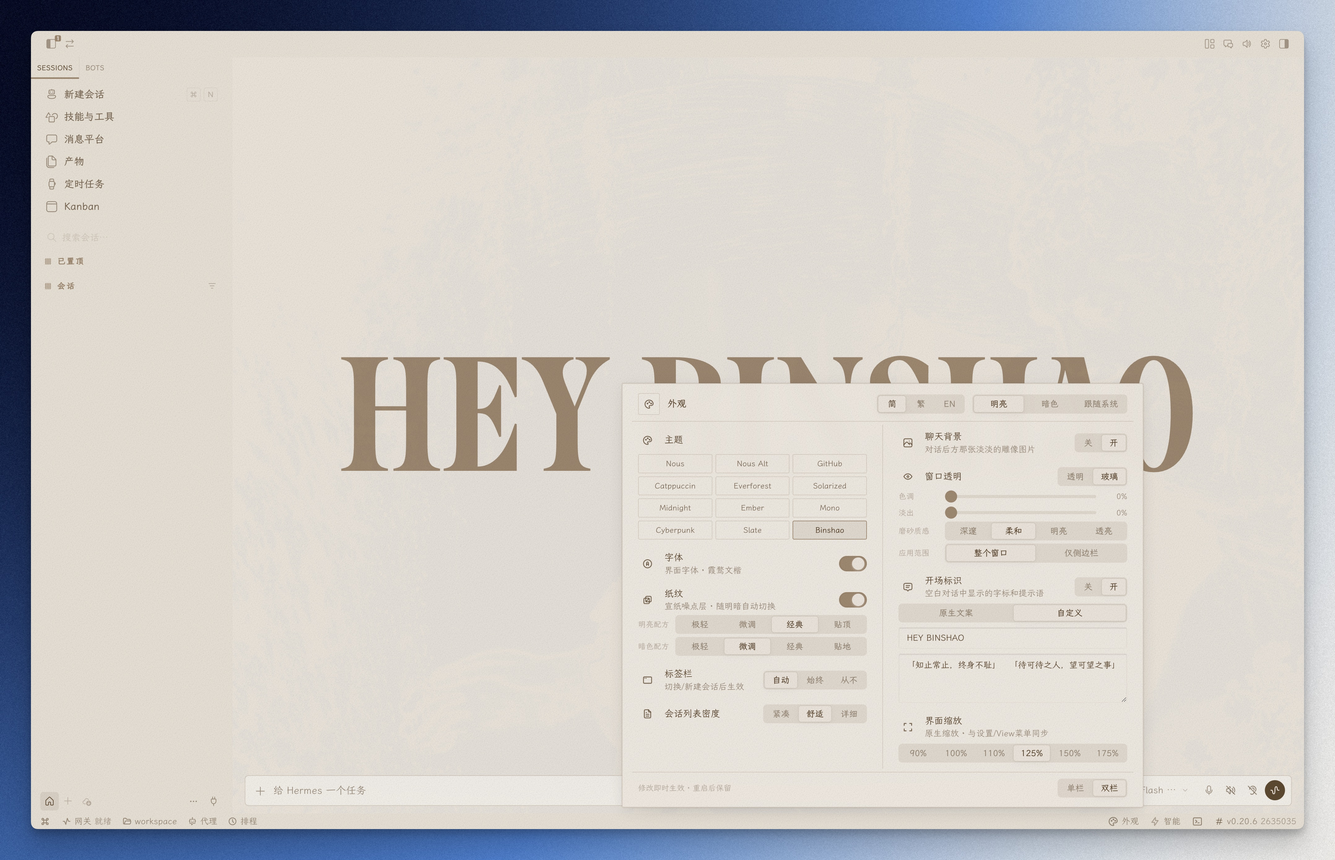
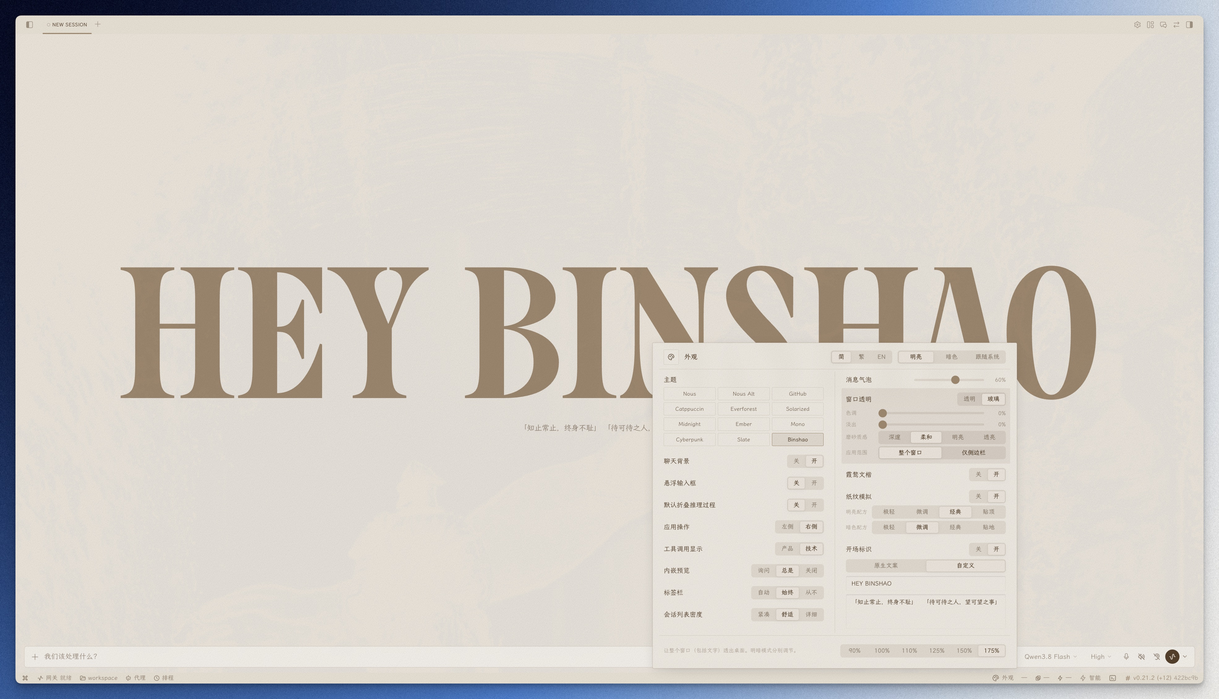
docs(readme): rewrite preview and usage for the v3 panel form
- drop context-menu section (and its screenshot), single panel shot
  replaces dual-column pair — new user-provided captures
- Binshao theme + intro splash (native/custom, two shots) refreshed
- font+paper before/after untouched per request
- features/usage/principles synced: desc band, behavior quintet,
  static fingerprint atom claim, renamed rows

diff --git a/README.md b/README.md
@@ -1,41 +1,40 @@
 # Hermes Appearance Hub ![版本](https://img.shields.io/badge/版本-v2.3.0-blue)
 
-给 Hermes 桌面端用的**外观整合插件**：把主题、纸纹、字体、缩放、标签栏、密度、聊天背景、消息气泡、窗口透明、开场标识等外观设置收进一个状态栏入口，一键管理，设置持久化。
+给 Hermes 桌面端用的**外观整合插件**：把主题、纸纹模拟、字体、缩放、标签栏、密度、聊天背景、消息气泡、窗口透明、开场标识、对话行为等设置收进一个状态栏入口，一键管理，设置持久化。
 
 ## 特性
 
 - 无需构建、不改应用代码——单个 ESM 文件
 - 状态栏「外观」入口，右键可显隐
-- 主题（12 个，含 Binshao 暖纸）· 语言简/繁/EN · 霞鹜文楷 · 纸纹 · 缩放 · 标签栏 · 密度 · 聊天背景 · 消息气泡 · 窗口透明 · 开场标识
+- 双栏面板 · 每行只留标题，悬停即见简介（底部说明带）
+- 主题（12 个，含 Binshao 暖纸）· 语言简/繁/EN · 霞鹜文楷 · 纸纹模拟 · 缩放 · 标签栏 · 密度 · 聊天背景 · 消息气泡 · 窗口透明 · 开场标识 · 对话行为（工具调用显示 / 折叠推理 / 内嵌预览 / 悬浮输入框 / 应用操作）
 - 设置持久化，卸载清理注入、不留残留
 
 ## 界面预览
 
-### 状态栏右键菜单
+### 外观浮窗
 
-可勾选显示/隐藏「外观设置」入口：
+点击状态栏「外观」按钮弹出，双栏铺开；每行只留标题，悬停任一设置项，底部说明带显示该项简介：
 
-![状态栏右键菜单](assets/screenshot-context-menu.png)
-
-### 外观浮窗 · 双栏
-
-点击状态栏「外观」按钮弹出，双栏铺开、高度减半，矮屏/大缩放不需要滚动。多数能力即时生效；标签栏、会话列表密度随下次布局变化生效：
-
-![外观浮窗 · 双栏](assets/screenshot-panel-dual.jpg)
+![外观浮窗](assets/screenshot-panel.jpg)
 
 ### Binshao 主题
 
-暖纸色系明暗双模式，配纸纹层使用更佳——亮色泛黄杂志纸，暗色深棕纸：
+暖纸色系明暗双模式，配纸纹模拟使用更佳——亮色泛黄杂志纸，暗色深棕纸：
 
 ![Binshao · 明亮](assets/screenshot-theme-binshao-light.jpg)
 
 ![Binshao · 暗色](assets/screenshot-theme-binshao-dark.jpg)
 
-### 开场标识自定义
+### 开场标识
 
-新会话空态字标与提示语替换为自定义文案：
+原生文案（官方字标与随机提示语）：
 
-![开场标识自定义](assets/screenshot-intro-custom.png)
+![开场标识 · 原生文案](assets/screenshot-intro-native.jpg)
+
+自定义文案（字标与提示语均可替换）：
+
+![开场标识 · 自定义](assets/screenshot-intro-custom.jpg)
 
 ### 字体 + 纸纹 · 浅色
 
@@ -89,17 +88,17 @@ git clone https://github.com/Heybinshao/hermes-appearance-hub ~/.hermes/desktop-
 ## 使用
 
 1. 状态栏右侧出现「外观」按钮（调色盘图标），点击弹出浮窗
-2. 多数能力即时生效；标签栏、会话列表密度随下次布局变化生效：
-   - **主题**：右上角明亮/暗色/系统三档；网格区 12 个主题点击即切（11 个原生 + Binshao）
-   - **语言**：简/繁/EN 三键，绑定官方语言通道（位于顶部标题行、主题三档左侧）
-   - **字体**：霞鹜文楷界面字体一键开关
-   - **纸纹**：噪点层随明暗自动切换；下方配方可选极轻/微调/经典/贴地（暗色）或贴顶（浅色），从左到右由轻到重
-   - **界面缩放**：六档按钮，直接驱动 Hermes 原生缩放，与设置/View 菜单同步
-   - **标签栏 / 会话列表密度**：与设置页同源，改动落盘后随下次布局变化生效（如切换/新建会话）
+2. 每行只留标题，鼠标悬停任一设置项，底部说明带显示该项简介（不悬停时显示占位提示）；多数能力即时生效，标签栏、会话列表密度随下次布局变化生效：
+   - **主题**：右上角明亮/暗色/系统三档、简/繁/EN 语言三键；网格区 12 个主题点击即切（11 个原生 + Binshao）
    - **聊天背景**：雕像图片显隐开关
+   - **对话行为**：工具调用显示（产品/技术）· 默认折叠推理过程 · 内嵌预览（询问/总是/关闭）· 悬浮输入框（拖出停靠区开关）· 应用操作（标题栏控件左/右）——与官方设置页同键直驱，即时生效
+   - **标签栏 / 会话列表密度**：与设置页同源，改动落盘后随下次布局变化生效（如切换/新建会话）
    - **消息气泡**：拖杆调节自己消息气泡的透明度（0 不透明 → 100 只剩边框），与官方设置页同键同步
    - **窗口透明**：透明/玻璃模式 + 强度滑杆，玻璃模式展开淡出/磨砂质感/应用范围；通过官方 IPC 实时驱动原生窗口效果
-   - **开场标识**：关/开即时生效（与官方设置页开关同键同步，官方页切换 hub 跟平）；开启时可选「原生文案」或「自定义」（输入字标与提示语，停手约半秒自动生效）；禁用插件会还原官方文案
+   - **霞鹜文楷**：界面字体一键开关
+   - **纸纹模拟**：噪点层随明暗自动切换；下方配方可选极轻/微调/经典/贴地（暗色）或贴顶（浅色），从左到右由轻到重；关时配方区锁定不可选
+   - **开场标识**：关/开即时生效（与官方设置页开关同键同步）；原生文案/自定义与输入框常驻显示，按档位分层启用（关→整块锁定；开+原生→输入框锁定；开+自定义→可编辑字标与提示语，停手约半秒自动生效）；禁用插件会还原官方文案
+   - **界面缩放**：底部右角六档按钮，直接驱动 Hermes 原生缩放，与设置/View 菜单同步
 3. 状态栏右键菜单 → 勾选「外观设置」可显示/隐藏入口
 
 > **界面缩放** 六档（90/100/110/125/150/175%）直接调用 Hermes 原生缩放接口
@@ -118,10 +117,11 @@ rm -rf ~/.hermes/desktop-plugins/hermes-appearance-hub
 
 ## 原理简述
 
-- **纸纹**：全屏 fixed 背景层（z-index 最大 + `pointer-events: none` 不挡点击），纹理 = SVG `feTurbulence` 噪点 data URI（无外部图片依赖）；浅色 `multiply`、深色 `screen`，`MutationObserver` 跟随明暗切换
-- **字体**：注入 `:root { --dt-font-sans/--dt-font-mono: 'LXGW WenKai' !important }`，压过主题的 inline 字体设置
+- **底部说明带**：每行只留标题，`onMouseEnter`/`onFocus` 携带该项 desc 键名上报面板状态，150ms 防抖后在底部固定高度（两行）区域渲染；离开定格最后一条、面板重开回占位。禁用某项时用外层 `pointer-events:none` 掐指针感知——官方 `SegmentedControl` 的 `disabled` 只挡点击不挡 `:hover`
+- **纸纹模拟**：全屏 fixed 背景层（z-index 最大 + `pointer-events: none` 不挡点击），纹理 = SVG `feTurbulence` 噪点 data URI（无外部图片依赖）；浅色 `multiply`、深色 `screen`，`MutationObserver` 跟随明暗切换
+- **霞鹜文楷**：注入 `:root { --dt-font-sans/--dt-font-mono: 'LXGW WenKai' !important }`，压过主题的 inline 字体设置
 - **开场标识**：定位原生开关的 localStorage 键（`hermes.desktop.intro-splash.v1`）做落盘同步；自定义文字用 `MutationObserver` 直接替换 `[data-slot="aui_intro"]` 内 fit-text 叶子 span 的文本——不碰应用代码，React 重渲染写回也会被重新替换；禁用时移除注入并还原原文案
-- **密度/标签栏/聊天背景**：直写官方 localStorage 键，并通过动态 import 官方打包 chunk 拿到 nanostores atom 实时驱动界面（运行时按行为特征识别 atom，无硬编码混淆名）；atom 未识别时退回 localStorage 直写
+- **官方设置项直驱**：动态 import 官方打包 chunk 拿 nanostores atom 实时驱动界面。识别方式三种——① 字符串枚举按值域互斥认领（密度/工具调用/内嵌预览/应用操作/标签栏）；② boolean 翻转探测按「翻转引发哪个 localStorage 键写入」滚动基线认领（聊天背景/开场标识/折叠推理）；③ 无 persist 订阅的 atom（悬浮输入框）走静态源码指纹反解（存储键字面量全 chunk 唯一，反解 `键→种子→atom→export` 变量链）。均无硬编码混淆名；atom 未识别时退回 localStorage 直写（重启生效）
 - **窗口透明**：写 TranslucencyBook JSON 后直接调用 `window.hermesDesktop.setTranslucency()` IPC，实时驱动原生窗口效果
 - **双栏布局**：面板区块提取为列表后按列分配渲染，标题行通栏
 - **Binshao 主题**：主题种子写入官方用户主题 localStorage 键（`hermes-desktop-user-themes-v1`），经官方 `resolveTheme` 生效；另注入一小段作用域锁定的 CSS（选中色/输入框底/行内代码），补齐主题管道外的硬编码色
